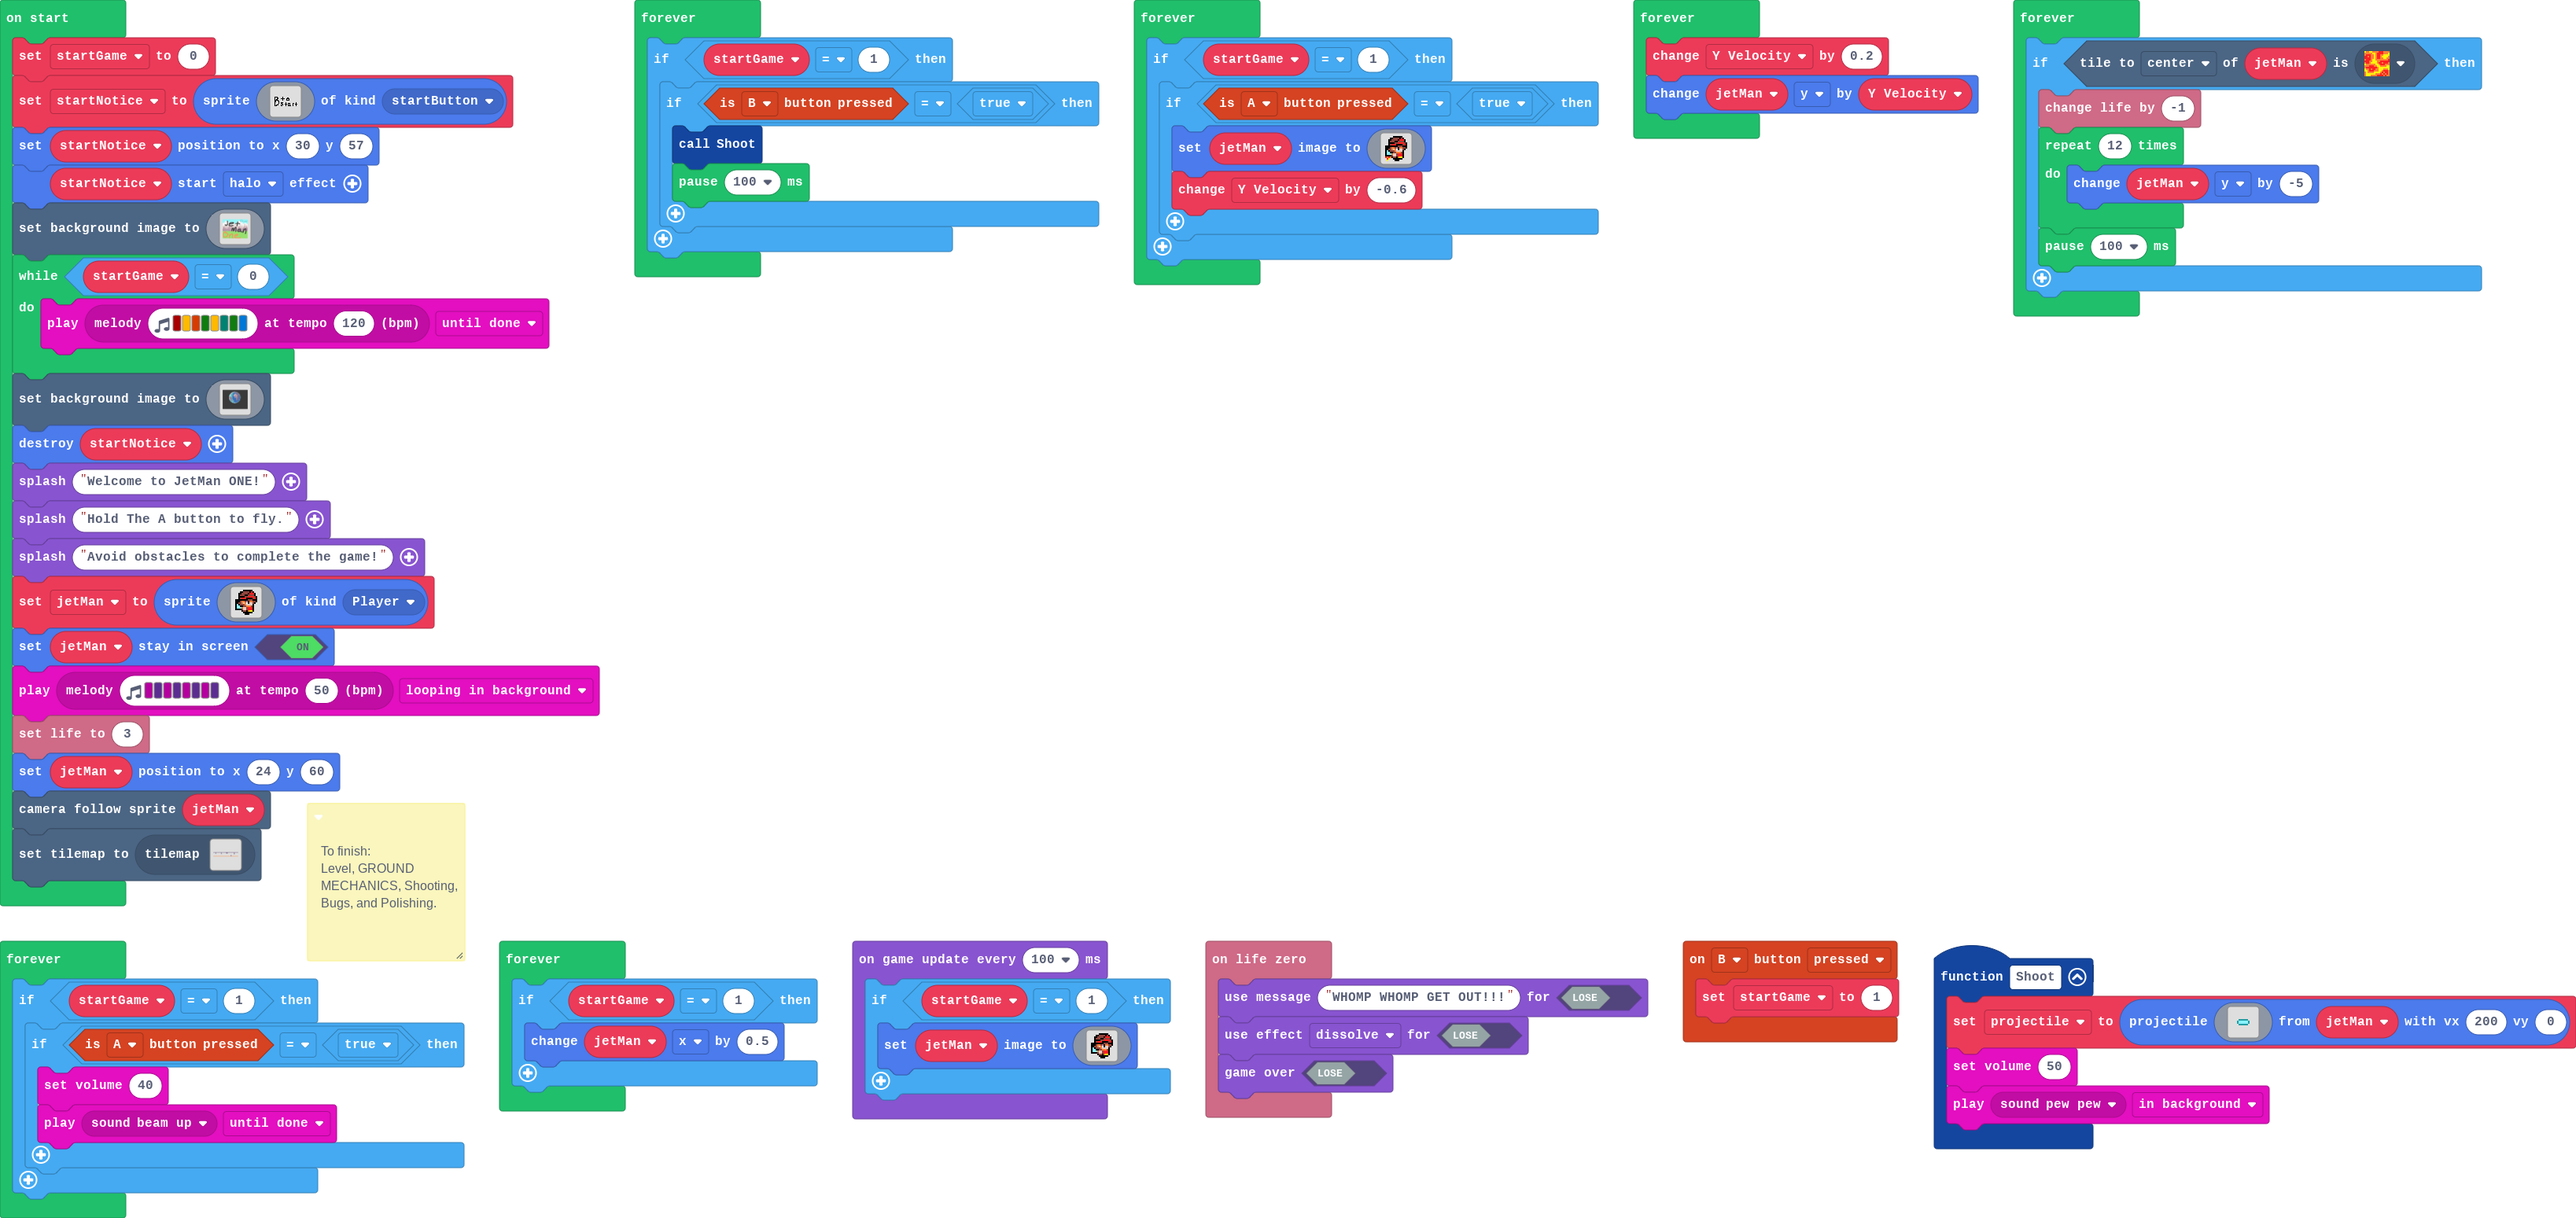
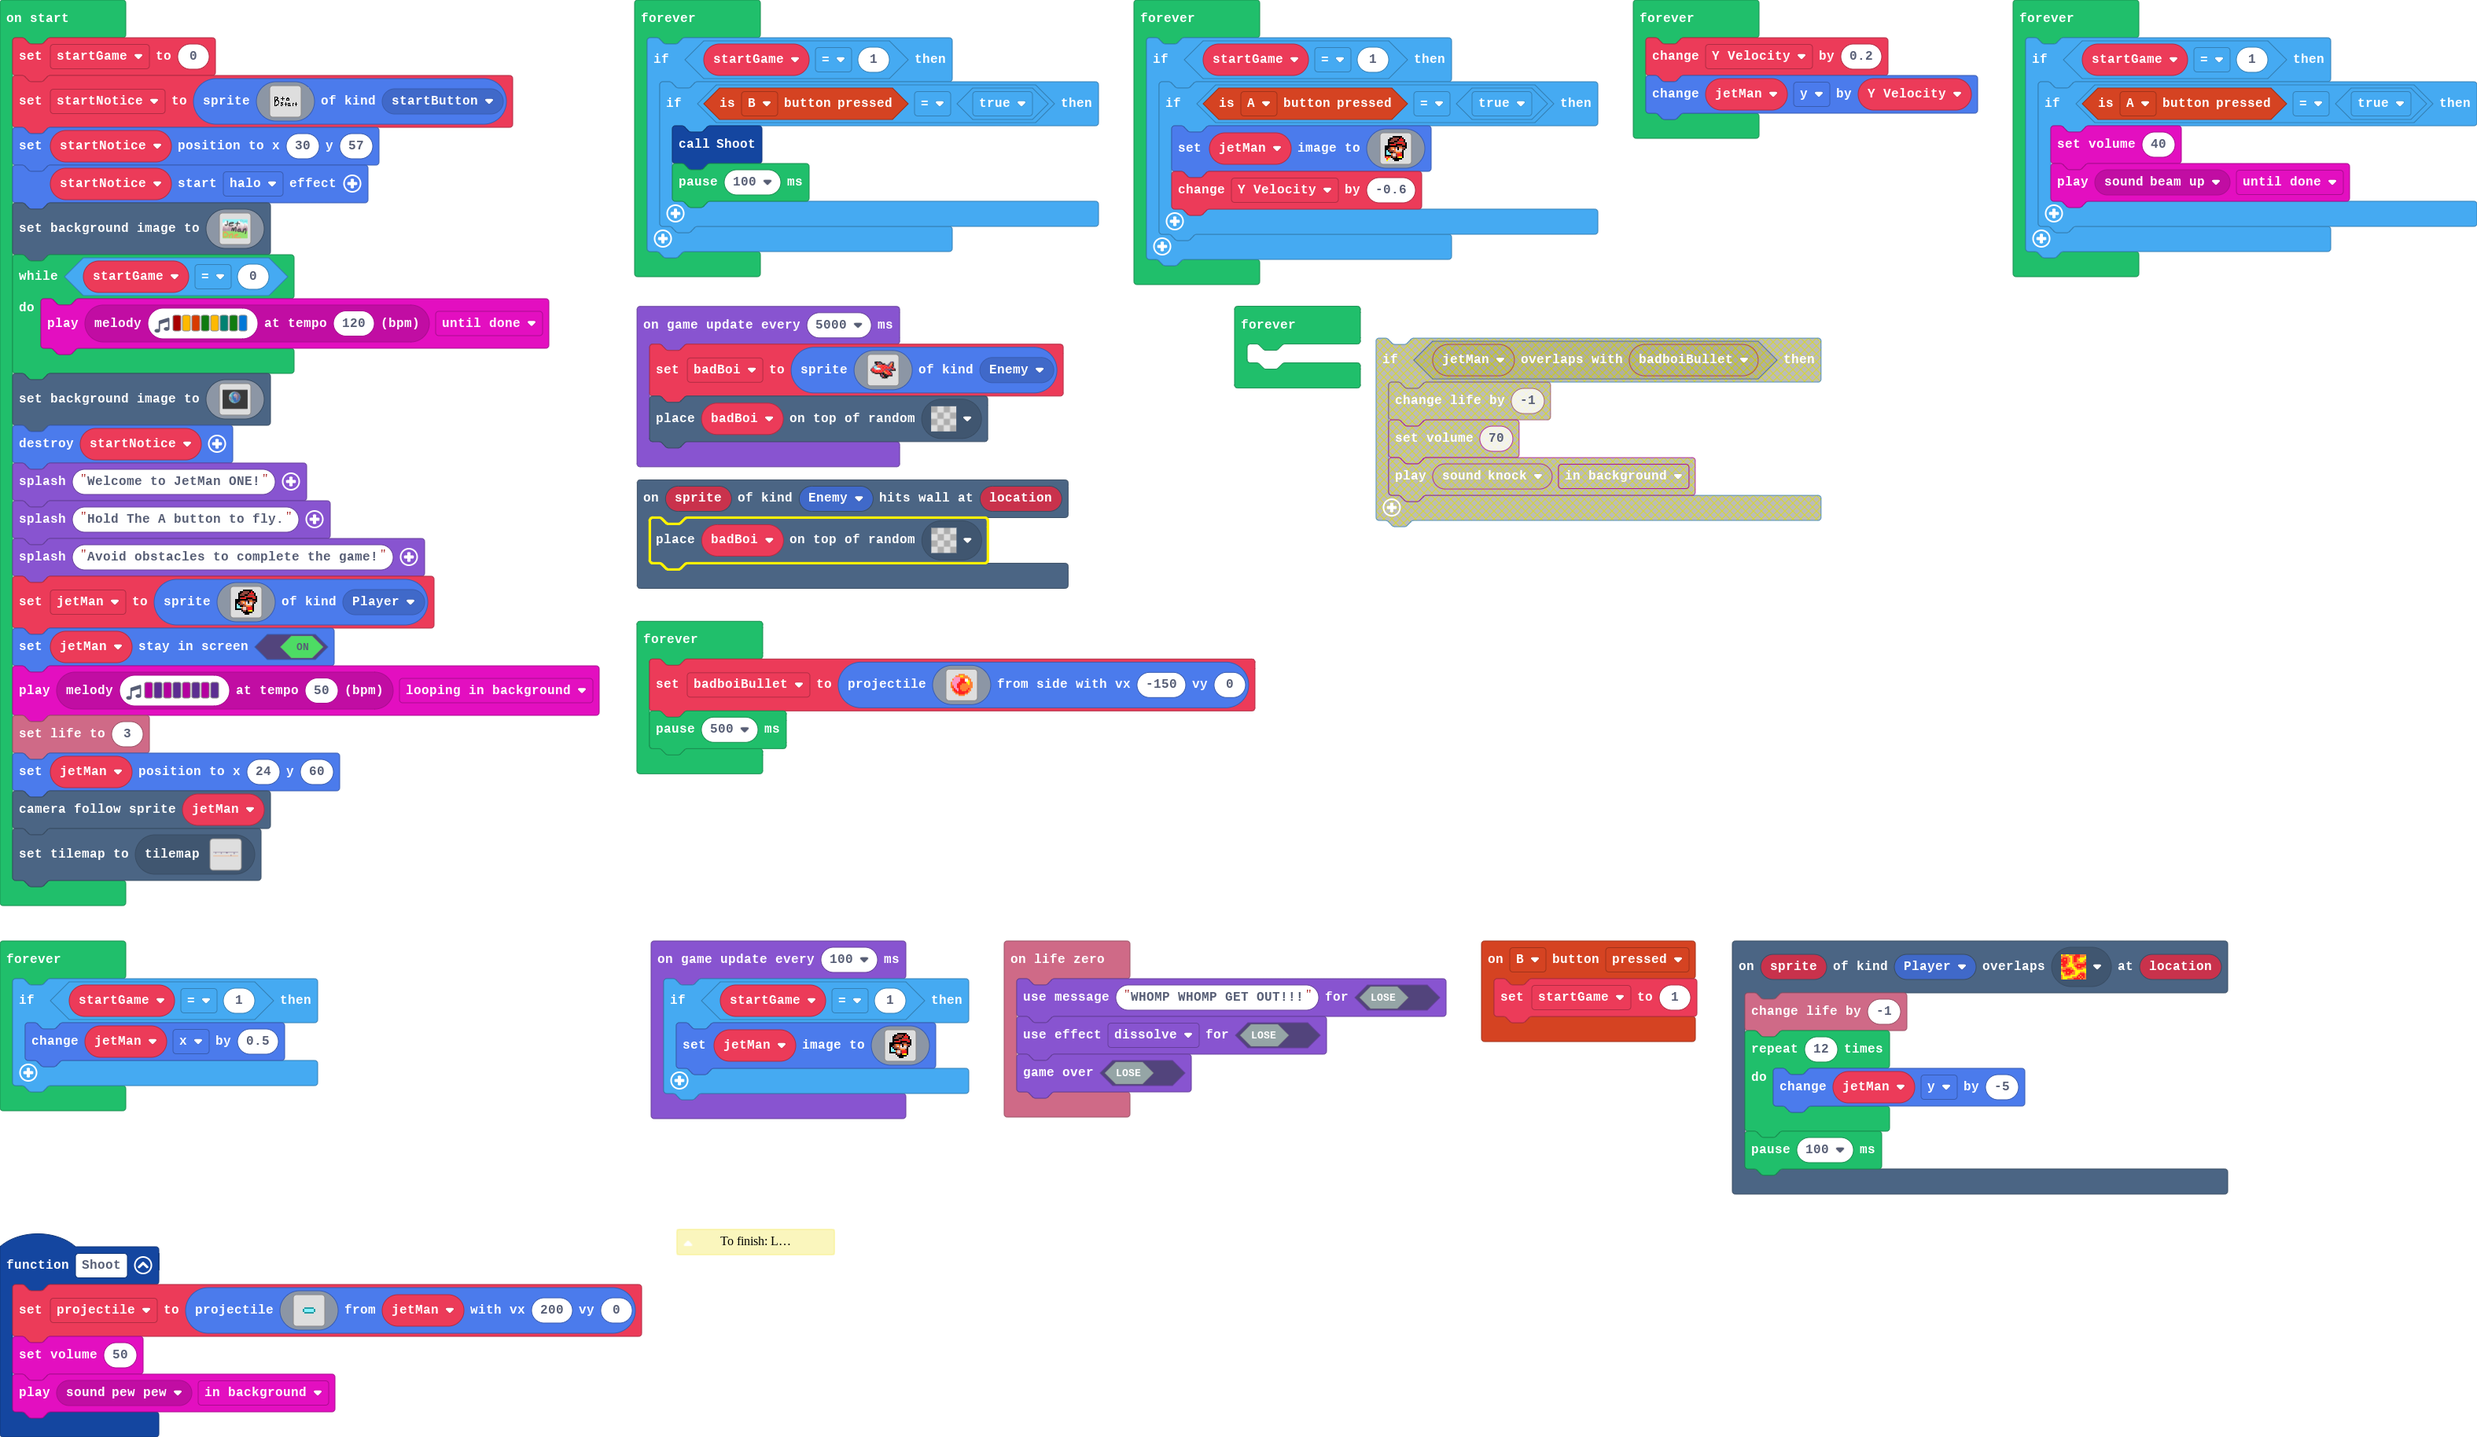
Update main.blocks, main.ts, images.g.jres, images.g.ts

diff --git a/main.ts b/main.ts
@@ -1,6 +1,12 @@
 namespace SpriteKind {
     export const startButton = SpriteKind.create()
+    export const badProjectile = SpriteKind.create()
 }
+/**
+ * To finish:
+ * 
+ * Level, GROUND MECHANICS, Shooting, Bugs, and Polishing.
+ */
 controller.B.onEvent(ControllerButtonEvent.Pressed, function () {
     startGame = 1
 })
@@ -26,12 +32,24 @@ function Shoot () {
     music.setVolume(50)
     music.play(music.melodyPlayable(music.pewPew), music.PlaybackMode.InBackground)
 }
+scene.onHitWall(SpriteKind.Enemy, function (sprite, location) {
+    tiles.placeOnRandomTile(badBoi, assets.tile`transparency16`)
+})
+scene.onOverlapTile(SpriteKind.Player, sprites.dungeon.hazardLava1, function (sprite, location) {
+    info.changeLifeBy(-1)
+    for (let index = 0; index < 12; index++) {
+        jetMan.y += -5
+    }
+    pause(100)
+})
 info.onLifeZero(function () {
     game.setGameOverMessage(false, "WHOMP WHOMP GET OUT!!!")
     game.setGameOverEffect(false, effects.dissolve)
     game.gameOver(false)
 })
+let badboiBullet: Sprite = null
 let Y_Velocity = 0
+let badBoi: Sprite = null
 let projectile: Sprite = null
 let jetMan: Sprite = null
 let startGame = 0
@@ -55,6 +73,10 @@ info.setLife(3)
 jetMan.setPosition(24, 60)
 scene.cameraFollowSprite(jetMan)
 tiles.setCurrentTilemap(tilemap`level`)
+game.onUpdateInterval(5000, function () {
+    badBoi = sprites.create(assets.image`enemyPlane`, SpriteKind.Enemy)
+    tiles.placeOnRandomTile(badBoi, assets.tile`transparency16`)
+})
 forever(function () {
     if (startGame == 1) {
         if (controller.B.isPressed() == true) {
@@ -76,26 +98,19 @@ forever(function () {
     jetMan.y += Y_Velocity
 })
 forever(function () {
-    if (jetMan.tileKindAt(TileDirection.Center, sprites.dungeon.hazardLava1)) {
-        info.changeLifeBy(-1)
-        for (let index = 0; index < 12; index++) {
-            jetMan.y += -5
-        }
-        pause(100)
-    }
-})
-/**
- * To finish:
- * 
- * Level, GROUND MECHANICS, Shooting, Bugs, and Polishing.
- */
-forever(function () {
     if (startGame == 1) {
         if (controller.A.isPressed() == true) {
             music.setVolume(40)
             music.play(music.melodyPlayable(music.beamUp), music.PlaybackMode.UntilDone)
         }
     }
+})
+forever(function () {
+	
+})
+forever(function () {
+    badboiBullet = sprites.createProjectileFromSide(assets.image`bulletBadboi`, -150, 0)
+    pause(500)
 })
 forever(function () {
     if (startGame == 1) {

diff --git a/images.g.ts b/images.g.ts
@@ -325,6 +325,44 @@ ffffffffffffffffffffffffffffffffffffffffffffffffffffffffffffffffffffffffffffffff
 ffffffffffffffffffffffffffffffffffffffffffffffffffffffffffffffffffffffffffffffffffffffffffffffffffffffffffffffffffffffffffffffffffffffffffffffffffffffffffffffff
 ffffffffffffffffffffffffffffffffffffffffffffffffffffffffffffffffffffffffffffffffffffffffffffffffffffffffffffffffffffffffffffffffffffffffffffffffffffffffffffffff
 `;
+            case "image1":
+            case "enemyPlane":return img`
+....ffffff.........ccc..
+....ff22ccf.......cc4f..
+.....ffccccfff...cc44f..
+....cc24442222cccc442f..
+...c9b4422222222cc422f..
+..c999b2222222222222fc..
+.c2b99111b222222222c22c.
+c222b111992222ccccccc22f
+f222222222222c222ccfffff
+.f2222222222442222f.....
+..ff2222222cf442222f....
+....ffffffffff442222c...
+.........f2cfffc2222c...
+.........fcc2ffffffff...
+..........fc2ffff.......
+...........fffff........
+`;
+            case "image2":
+            case "bulletBadboi":return img`
+. . . . . . . . . . . . . . . . 
+. . . . . . 4 4 4 4 . . . . . . 
+. . . . 4 4 4 5 5 4 4 4 . . . . 
+. . . 3 3 3 3 4 4 4 4 4 4 . . . 
+. . 4 3 3 3 3 2 2 2 1 1 4 4 . . 
+. . 3 3 3 3 3 2 2 2 1 1 5 4 . . 
+. 4 3 3 3 3 2 2 2 2 2 5 5 4 4 . 
+. 4 3 3 3 2 2 2 4 4 4 4 5 4 4 . 
+. 4 4 3 3 2 2 4 4 4 4 4 4 4 4 . 
+. 4 2 3 3 2 2 4 4 4 4 4 4 4 4 . 
+. . 4 2 3 3 2 4 4 4 4 4 2 4 . . 
+. . 4 2 2 3 2 2 4 4 4 2 4 4 . . 
+. . . 4 2 2 2 2 2 2 2 2 4 . . . 
+. . . . 4 4 2 2 2 2 4 4 . . . . 
+. . . . . . 4 4 4 4 . . . . . . 
+. . . . . . . . . . . . . . . . 
+`;
         }
         return null;
     })
